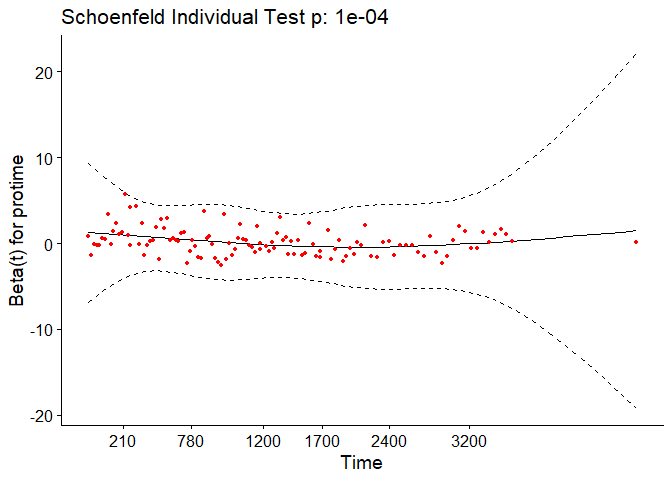
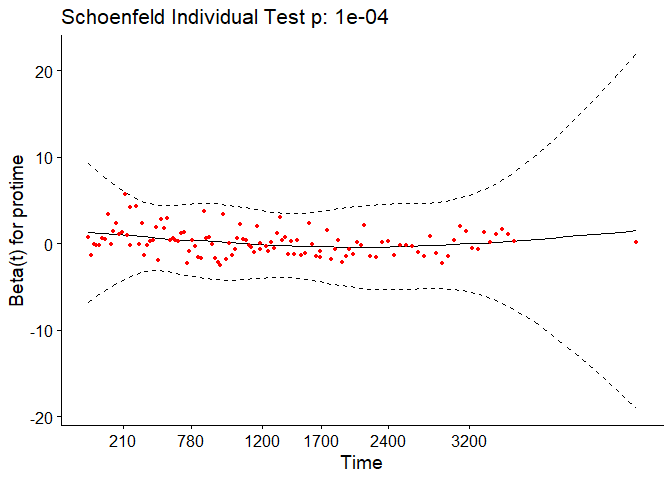
final edits

diff --git a/index.md b/index.md
@@ -517,18 +517,18 @@ model as a whole.
     test.ph
 
     ##             chisq df       p
-    ## age        10.884  1 0.00097
-    ## edema       1.115  1 0.29091
-    ## bili        6.809  1 0.00907
-    ## albumin     3.630  1 0.05673
-    ## copper      0.932  1 0.33430
-    ## ast         0.716  1 0.39761
-    ## protime    14.552  1 0.00014
-    ## stage      17.315  1 3.2e-05
-    ## age:edema   1.053  1 0.30492
-    ## age:copper  0.292  1 0.58908
-    ## bili:ast   11.955  1 0.00055
-    ## GLOBAL     63.669 11 1.9e-09
+    ## age        10.869  1 0.00098
+    ## edema       1.109  1 0.29228
+    ## bili        6.760  1 0.00932
+    ## albumin     3.589  1 0.05816
+    ## copper      0.917  1 0.33837
+    ## ast         0.709  1 0.39969
+    ## protime    14.486  1 0.00014
+    ## stage      17.349  1 3.1e-05
+    ## age:edema   1.044  1 0.30698
+    ## age:copper  0.281  1 0.59625
+    ## bili:ast   11.952  1 0.00055
+    ## GLOBAL     63.574 11 2.0e-09
 
 ![](index_files/figure-markdown_strict/unnamed-chunk-16-1.png)![](index_files/figure-markdown_strict/unnamed-chunk-16-2.png)![](index_files/figure-markdown_strict/unnamed-chunk-16-3.png)![](index_files/figure-markdown_strict/unnamed-chunk-16-4.png)![](index_files/figure-markdown_strict/unnamed-chunk-16-5.png)
 
@@ -680,8 +680,8 @@ performs better here, the difference is marginal and perhaps negligible.
     ## Integrated Brier score (crps):
     ## 
     ##         AppErr BootCvErr
-    ## rsf      0.041     0.068
-    ## cforest  0.054     0.073
+    ## rsf      0.041     0.067
+    ## cforest  0.055     0.072
 
 ![](index_files/figure-markdown_strict/unnamed-chunk-27-1.png)
 
@@ -936,15 +936,17 @@ training process on the employee turnover data.
 <figure>
 <img src="img/rsf.var_imp_turn.png" width="570"
 alt="RSF Variable Importance Employee Turnover Data. Industry, age, and age.way are among the top 3." />
-<figcaption aria-hidden="true">RSF Variable Importance Employee Turnover
-Data. Industry, age, and age.way are among the top 3.</figcaption>
+<figcaption aria-hidden="true"><em>RSF Variable Importance Employee
+Turnover Data. Industry, age, and age.way are among the top
+3.</em></figcaption>
 </figure>
 
 <figure>
 <img src="img/cif.var_imp_turn.png" width="570"
 alt="CIF Variable Importance Employee Turnover Data. Industry, age.way, and age are among the top 3." />
-<figcaption aria-hidden="true">CIF Variable Importance Employee Turnover
-Data. Industry, age.way, and age are among the top 3.</figcaption>
+<figcaption aria-hidden="true"><em>CIF Variable Importance Employee
+Turnover Data. Industry, age.way, and age are among the top
+3.</em></figcaption>
 </figure>
 
 While the two models generally agree on the first 5 most important
